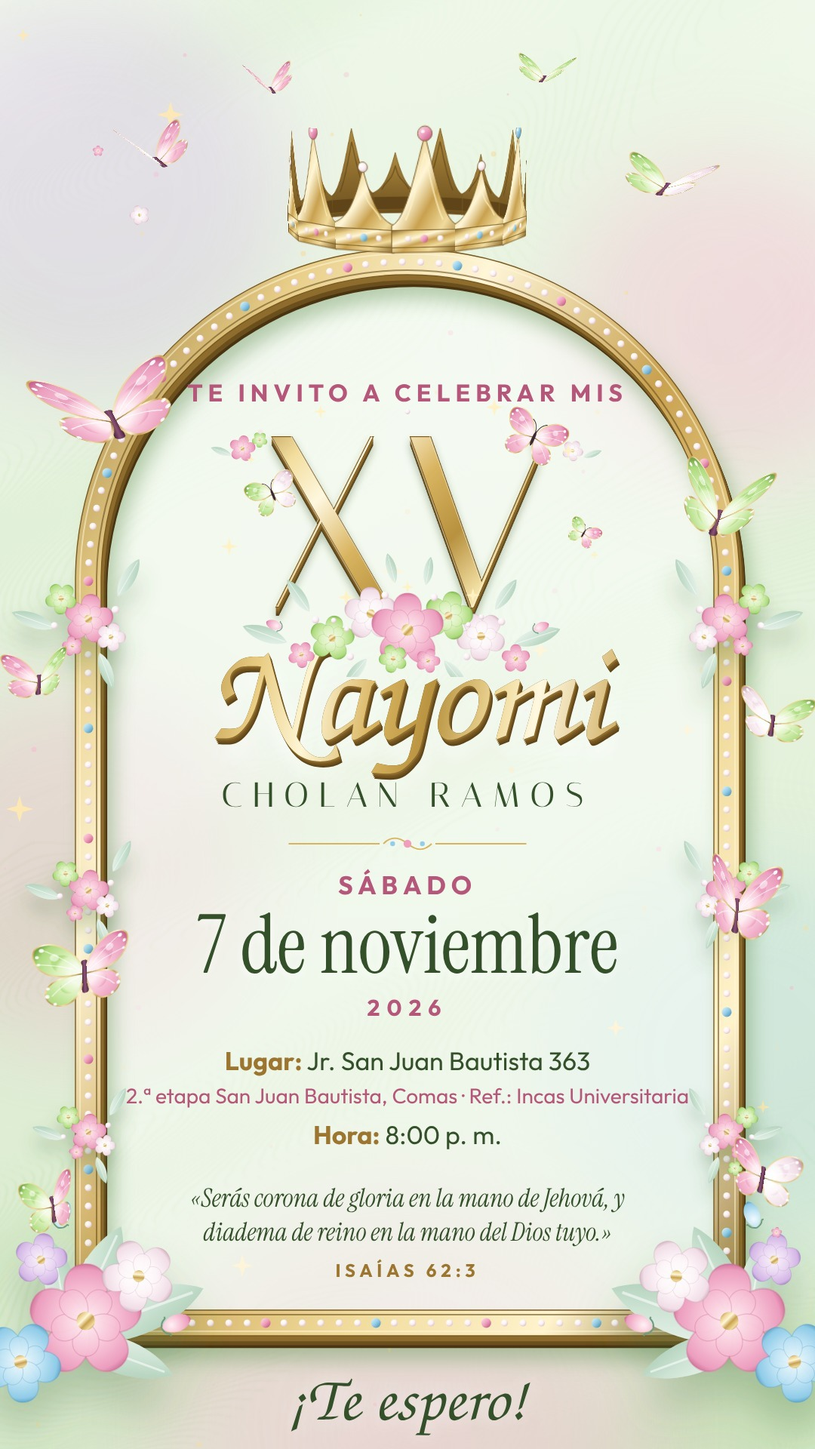
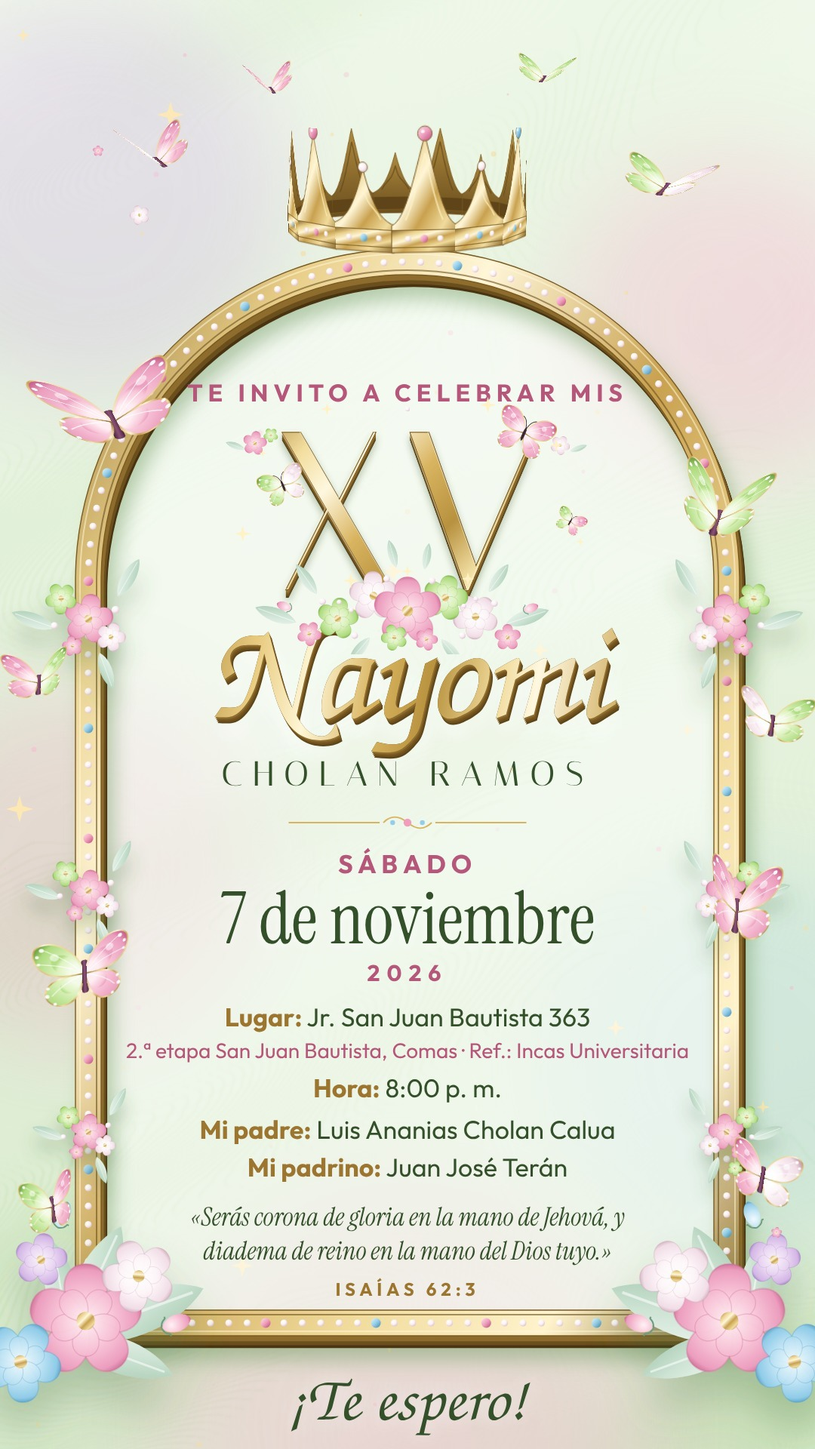
Agregar padre y padrino; más 3D (flores y corazones en cruz), modo ahorro y bajada con velocidad máxima
Claude-Session: https://claude.ai/code/session_01AKzUEhFsuXk9YdjnFDAqWs

Changed region(s): [[0.1528, 0.2812, 0.825, 0.9062], [0.6722, 0.3438, 0.7333, 0.375]]

diff --git a/cine/index.html b/cine/index.html
@@ -21,7 +21,7 @@
 *{box-sizing:border-box}
 html{background:#D6EAC8}
 body{margin:0;color:var(--perla);font:400 16px/1.5 "Outfit",system-ui,sans-serif;overflow-x:hidden;-webkit-tap-highlight-color:transparent}
-#largo{height:700vh}
+#largo{height:800vh}
 #fondo{position:fixed;inset:0;z-index:0;background:#D6EAC8 center/cover}
 #fondo::after{content:"";position:absolute;inset:0;background:radial-gradient(55% 35% at 12% 8%,rgba(248,190,212,.38),transparent 70%),radial-gradient(55% 35% at 92% 88%,rgba(248,190,212,.4),transparent 70%),radial-gradient(70% 55% at 50% 45%,rgba(255,255,250,.35),transparent 70%),radial-gradient(80% 60% at 50% 50%,transparent 55%,rgba(90,130,70,.25))}
 #gl{position:fixed;left:0;top:0;width:100vw;height:100vh;height:100dvh;z-index:1;pointer-events:none;display:block}
@@ -93,6 +93,7 @@ body.abre.bajo #desliza{opacity:0;transition:opacity .4s}
   <h1>XV años de Nayomi Cholan Ramos</h1>
   <p>«Serás corona de gloria en la mano de Jehová, y diadema de reino en la mano del Dios tuyo.» Isaías 62:3</p>
   <p>Sábado 7 de noviembre de 2026, 8:00 p. m. Jr. San Juan Bautista 363, 2.ª etapa San Juan Bautista, Comas. Ref.: Incas Universitaria.</p>
+  <p>Mi padre: Luis Ananias Cholan Calua. Mi padrino: Juan José Terán.</p>
 </main>
 <div id="largo"></div>
 <div id="desliza" aria-hidden="true">Desliza hacia arriba<b></b></div>
@@ -302,7 +303,7 @@ body.abre.bajo #desliza{opacity:0;transition:opacity .4s}
   const globos = (z1, n, sal = 20) => { for (let j = 0; j < (lite ? Math.ceil(n / 2) : n); j++) { const lado = j % 2 ? 1 : -1, d0 = rnd(28, 46), k = (100 + d0) / 100;
       if (j < 2) { const w = 21 * k; obj(racimoT[j], { x: lado * hw * (ancho ? .74 : .7) * k, y: 0, z: z1 - d0, w, h: w * 1.25, sube: hh * 2.8 * k, ph: j * hh * 1.3 * k + rnd(0, 20), vsube: .5, ini: 230, sal }); }
       else { const w = rnd(8, 11) * k; obj(globosT[j % 3], { x: lado * hw * rnd(.72, .92) * k, y: 0, z: z1 - d0, w, h: w * 15.8 / 8, sube: hh * 2.8 * k, ph: rnd(0, hh * 2.8 * k), vsube: .6, ini: 230, sal }); } } };
-  const estrellas = (z1, n, sal = 20) => { for (let j = 0; j < n; j++) obj(estrellaT, { x: (j % 2 ? 1 : -1) * hw * rnd(.5, .85), y: rnd(-.7, .7) * hh, z: z1 + rnd(-8, 10), w: rnd(3.4, 5), h: 0, spinY: rnd(.8, 1.6) * (j % 2 ? 1 : -1), b: .8, ini: 210, sal }); };
+  const estrellas = (z1, n, sal = 20) => { for (let j = 0; j < n; j++) obj(estrellaT, { x: (j % 2 ? 1 : -1) * hw * rnd(.5, .85), y: rnd(-.7, .7) * hh, z: z1 + rnd(-8, 10), w: rnd(3.4, 5), h: 0, spinY: rnd(.8, 1.6) * (j % 2 ? 1 : -1), b: .8, ini: 210, sal, deco: 1 }); };
 
   // 0 · portada
   let z = 0;
@@ -319,7 +320,7 @@ body.abre.bajo #desliza{opacity:0;transition:opacity .4s}
   let ramT;
   { // XV con volumen, tiara, enredadera de flores, mariposas posadas y brillos
     const T0 = ancho ? 28 : 44, Y0 = ancho ? 4 : hh * .06, xv = texto("XV", { t: T0, fam: "caps", oro: 1 });
-    grueso(xv, { y: Y0, z: z + 2, sal: 30, meceY: 7, canto: [.62, .5, .32], b: .7 }, lite ? 2 : 4, .3);
+    grueso(xv, { y: Y0, z: z + 2, sal: 30, meceY: 7, canto: [.62, .5, .32], b: .7 }, lite ? 3 : 6, .28);
     const tiara = `<g transform="translate(0 6)"><path d="M-96,22 L-76,-8 L-58,14 L-35,-24 L-15,10 L0,-44 L15,10 L35,-24 L58,14 L76,-8 L96,22 C60,31 -60,31 -96,22 Z" fill="url(#oro)" stroke="#7A5A22" stroke-width="1.6" stroke-linejoin="round"/><path d="M-80,16 C-40,22 40,22 80,16" fill="none" stroke="#FFF6D8" stroke-opacity=".7" stroke-width="1.6"/>` +
       [[-76, -8, 4.6, "perlaG"], [76, -8, 4.6, "perlaG"], [-35, -24, 6.4, "joyaV"], [35, -24, 6.4, "joyaV"], [0, -44, 9.5, "joyaR"], [-15, 10, 3.8, "joyaR"], [15, 10, 3.8, "joyaR"], [-58, 14, 3.4, "joyaV"], [58, 14, 3.4, "joyaV"]].map(([x, y, r, g]) => `<circle cx="${x}" cy="${y}" r="${r}" fill="url(#${g})" stroke="#7A5A22" stroke-width="1"/><circle cx="${x - r * .3}" cy="${y - r * .35}" r="${r * .3}" fill="#fff" opacity=".85"/>`).join("") +
       [-84, -63, -42, -21, 0, 21, 42, 63, 84].map((x) => `<circle cx="${x}" cy="${(25 - Math.abs(x) * .05).toFixed(1)}" r="3" fill="url(#perlaG)"/>`).join("") + `<path d="M0,-66 l2.6,7.4 7.4,2.6 -7.4,2.6 -2.6,7.4 -2.6,-7.4 -7.4,-2.6 7.4,-2.6 Z" fill="#FFF6D8"/></g>`;
@@ -401,8 +402,21 @@ body.abre.bajo #desliza{opacity:0;transition:opacity .4s}
   jardin(z, 16);
 
   obj(ramT, { y: ancho ? -42 : -hh * .43, z: z + 4, w: (ancho ? 50 : 66), h: (ancho ? 50 : 66) * .4, sal: 24, b: 1 }); 
-  // 4 · la fecha
+  // 4 · con la bendición de Dios: papá y padrino
   z = -4 * D; guir(z);
+  desde(texto("Con la bendición de Dios", { t: ancho ? 6.4 : 6.8, fam: "ita" }), { y: ancho ? 35 : hh * .66, z, sal: 26, gira: 1 });
+  desde(texto("Y EL CARIÑO DE", { t: 3, peso: 600, esp: .26, col: "#B5577A" }), { y: ancho ? 27 : hh * .55, z, sal: 26 });
+  [["MI PADRE", "Luis Ananias Cholan Calua"], ["MI PADRINO", "Juan José Terán"]].forEach(([a1, b1], i) => {
+    const filas = [{ t: a1, tam: 2.8, peso: 600, esp: .24, col: "#9C7631", una: 1, gap: 2.4 }, { t: b1, tam: ancho ? 6.4 : 7, fam: "serif", lh: 1.12 }];
+    grueso(tarjeta(ancho ? 48 : 76, filas, 16), ancho ? { x: (i ? 1 : -1) * 27, y: -2, z: z - i * 6, ry: (i ? -1 : 1) * 14 * RAD, sal: 22, gira: 1, balancea: 1 } : { y: (i ? -1 : 1) * hh * .2 + (i ? -hh * .06 : 0), z: z - i * 8, ry: (i % 2 ? -1 : 1) * 9 * RAD, sal: 22, gira: 1, balancea: 1 }, lite ? 2 : 4, .7); });
+  desde({ c: ramoC, w: 40, h: 31.3 }, { x: -hw * .84, y: -hh * .88, z: z + 10, sal: 12 }); desde({ c: ramoC2, w: 40, h: 31.3 }, { x: hw * .84, y: -hh * .88, z: z + 10, sal: 12 });
+  mari("rosa", "lima", { x: hw * .62, y: hh * .78, z: z + 6, s: .65, r: -18 }); mari("lima", "rosa", { x: -hw * .66, y: -hh * .02, z: z + 8, s: .6, r: 16 });
+  vuela("rosa", "perla", z - 8); vuela("lima", "rosa", z - 14);
+  globos(z, 4); estrellas(z, 3);
+  jardin(z, 16);
+
+  // 5 · la fecha
+  z = -5 * D; guir(z);
   mari("celeste", "rosa", { x: -hw * .62, y: hh * .38, z: z + 8, s: .75, r: 18 }); mari("perla", "lima", { x: hw * .6, y: -hh * .6, z: z + 5, s: .65, r: -14 });
   obj(ramT, { y: ancho ? -42 : -hh * .5, z: z + 6, w: (ancho ? 46 : 62), h: (ancho ? 46 : 62) * .4, sal: 24, b: 1 }); 
   desde(texto("GUARDA LA FECHA", { t: 3.4, peso: 600, esp: .26, col: "#B5577A" }), { y: hh * .62, z, sal: 26, gira: 1 });
@@ -413,8 +427,8 @@ body.abre.bajo #desliza{opacity:0;transition:opacity .4s}
 
   orbita(0, hh * .02, z, ancho ? 36 : 40, lite ? 6 : 10, 5.4, .42, .16, [coraT, floresT[0], floresT[2], coraT, floresT[1]]); globos(z, 4);
 
-  // 5 · los detalles
-  z = -5 * D;
+  // 6 · los detalles
+  z = -6 * D;
   mari("rosa", "rosa", { x: hw * .7, y: hh * .78, z: z + 8, s: .6, r: -20 });
   const det = [["HORA", "8:00 p. m.", "Sábado 7 de noviembre"], ["LUGAR", "Jr. San Juan Bautista 363", "2.ª etapa San Juan Bautista, Comas · Ref.: Incas Universitaria"]];
   det.forEach(([a1, b1, c1], i) => { const filas = [{ t: a1, tam: 2.7, peso: 600, esp: .24, col: "#9C7631", una: 1, gap: 2 }, { t: b1, tam: 7, fam: "serif", lh: 1.12, gap: c1 ? 2 : 0 }]; if (c1) filas.push({ t: c1, tam: 3.5, col: "#B5577A", lh: 1.35 });
@@ -422,8 +436,8 @@ body.abre.bajo #desliza{opacity:0;transition:opacity .4s}
   vuela("lima", "rosa", z + 14); vuela("rosa", "rosa", z + 22, { s: .55 });
   jardin(z, 16);
 
-  // 6 · final
-  z = -6 * D; guir(z);
+  // 7 · final
+  z = -7 * D; guir(z);
   grueso(texto("¡Te espero!", { t: 14, fam: "serif", oro: 1 }), { y: hh * .34, z: z + 2, sal: -99, canto: [.62, .5, .32], b: .7 }, lite ? 1 : 3, .3);
   desde(texto("Sábado 7 de noviembre · 8:00 p. m.", { t: ancho ? 5 : 5.4, fam: "ita" }), { y: hh * .04, z, sal: -99 });
   desde(texto("Jr. San Juan Bautista 363, Comas", { t: ancho ? 4 : 4.4, fam: "ita", col: "#B5577A" }), { y: -hh * .04, z, sal: -99 });
@@ -435,26 +449,30 @@ body.abre.bajo #desliza{opacity:0;transition:opacity .4s}
   orbita(0, hh * .34, z + 2, ancho ? 34 : 38, lite ? 8 : 12, 5, .45, .18, [estrellaT, floresT[0], perlaT, floresT[2], coraT, floresT[4]]); globos(z, 6, -99); estrellas(z, 4, -99);
 
   // primer plano: flores y hojas grandes muy cerca de la cámara en las esquinas (se mueven más rápido = se siente la profundidad)
-  for (let e = 0; e < 7; e++) { const z0 = -e * D, dd = 42, zz = z0 + 100 - dd, vx = hw * dd / 100, vy = hh * dd / 100, lado = e % 2 ? -1 : 1;
+  for (let e = 0; e < 8; e++) { const z0 = -e * D, dd = 42, zz = z0 + 100 - dd, vx = hw * dd / 100, vy = hh * dd / 100, lado = e % 2 ? -1 : 1;
     obj(floresT[(e * 2) % 5], { x: -lado * vx * .92, y: -vy * .9, z: zz, w: 9, h: 9, rz: e, sal: 3, ini: 230, spin: .08 * lado });
     obj(hojaT, { x: -lado * vx * 1.02, y: -vy * .72, z: zz - 1, w: 13, h: 7, rz: (lado > 0 ? 210 : -30) * RAD, sal: 3, ini: 230 });
     obj(floresT[(e * 2 + 1) % 5], { x: lado * vx * .95, y: vy * .55, z: zz + 3, w: 6.5, h: 6.5, rz: e * 2, sal: 3, ini: 230, spin: -.1 * lado });
     obj(hojaT, { x: lado * vx * 1.05, y: vy * .66, z: zz + 2, w: 10, h: 5.5, rz: (lado > 0 ? -25 : 205) * RAD, sal: 3, ini: 230 });
     // corazones que suben y brillos alrededor
     for (let j = 0; j < (lite ? 3 : 6); j++) obj(coraT, { x: (j % 2 ? 1 : -1) * hw * rnd(.45, .85), y: 0, z: z0 + rnd(-10, 14), w: rnd(3.4, 5.4), h: 0, sube: hh * 2.2, ph: rnd(0, hh * 2.2), ini: 200, sal: 8 });
-    for (let j = 0; j < (lite ? 3 : 7); j++) obj(brilloT, { x: rnd(-.85, .85) * hw, y: rnd(-.8, .8) * hh, z: z0 + rnd(-6, 16), w: rnd(2.2, 4), h: 0, ini: 200, sal: 8, tw: rnd(1.2, 2.6) }); }
+    for (let j = 0; j < (lite ? 3 : 7); j++) obj(brilloT, { x: rnd(-.85, .85) * hw, y: rnd(-.8, .8) * hh, z: z0 + rnd(-6, 16), w: rnd(2.2, 4), h: 0, ini: 200, sal: 8, tw: rnd(1.2, 2.6), deco: 1 }); }
 
   // arcos de flores (un solo dibujo, se usa 6 veces)
   const AX = hw * .36, AY = hh * .07;            // la cámara se va de lado y sube un poco a mitad de camino
   // fondo lejano: flores y hojas grandes, suaves (se mueven lento = profundidad)
-  for (let e = 0; e < 7; e++) { const z0 = -e * D; for (let j = 0; j < (lite ? 3 : 6); j++) { const lado = j % 2 ? 1 : -1, dd = rnd(70, 120), k = (100 + dd) / 100, t = j % 4 === 3 ? hojaT : floresT[(j + e) % 5], w = rnd(11, 17) * k;
-      obj(t, { x: lado * hw * rnd(.35, .95) * k, y: rnd(-.9, .9) * hh * k, z: z0 - dd, w, h: t === hojaT ? w * .55 : w, rz: rnd(0, 6.28), b: 1, ini: 260, sal: 10, spin: rnd(-.06, .06) }); }
+  for (let e = 0; e < 8; e++) { const z0 = -e * D; for (let j = 0; j < (lite ? 3 : 6); j++) { const lado = j % 2 ? 1 : -1, dd = rnd(70, 120), k = (100 + dd) / 100, t = j % 4 === 3 ? hojaT : floresT[(j + e) % 5], w = rnd(11, 17) * k;
+      obj(t, { x: lado * hw * rnd(.35, .95) * k, y: rnd(-.9, .9) * hh * k, z: z0 - dd, w, h: t === hojaT ? w * .55 : w, rz: rnd(0, 6.28), b: 1, ini: 260, sal: 10, deco: 1, spin: rnd(-.06, .06) }); }
     // corazones grandes que giran en 3D
     for (let j = 0; j < (lite ? 1 : 3); j++) obj(coraT, { x: (j % 2 ? 1 : -1) * hw * rnd(.55, .8), y: rnd(-.55, .6) * hh, z: z0 + rnd(-14, 6), w: rnd(5.5, 8), h: 0, spinY: rnd(.9, 1.5) * (j % 2 ? 1 : -1), b: .75, ini: 220, sal: 10 }); }
 
+  // en cada parte: flores y corazones 3D que giran
+  for (let e = 0; e < 8; e++) { const z0 = -e * D; for (let j = 0; j < (lite ? 2 : 4); j++) { const t = j % 2 ? coraT : floresT[(j + e * 3) % 5], w = t === coraT ? rnd(5, 7) : rnd(6, 8.5);
+    obj(t, { x: (j % 2 ? 1 : -1) * hw * rnd(.5, .82), y: rnd(-.7, .7) * hh, z: z0 + rnd(-12, 8), w, h: t === coraT ? w * .92 : w, spinY: rnd(.5, .9) * (j % 2 ? 1 : -1), cruz: 1, b: .8, ini: 220, sal: 10, deco: 1 }); } }
+
   // remolino de brillos alrededor del camino de la cámara
-  for (let k = 0; k < 6; k++) { const n = lite ? 14 : 30; for (let j = 0; j < n; j++) { const u = (j + .5) / n, sv = (k + .12 + u * .76) * D, f = sv / D - k, s1 = Math.sin(Math.PI * f) ** 2, cx = (k % 2 ? -1 : 1) * AX * s1, cy = AY * s1, an = u * Math.PI * 7 + k, rr = 16 + (j % 3) * 5;
-    obj(j % 4 === 0 ? estrellaT : brilloT, { x: cx + Math.cos(an) * rr * (hw / 50), y: cy + Math.sin(an) * rr * (hh / 50) * .8, z: 100 - sv - 8, w: j % 4 === 0 ? 3.2 : rnd(2, 3.4), h: 0, ini: 170, sal: 3, tw: rnd(1.5, 3), spinY: j % 4 === 0 ? 1.4 : 0 }); } }
+  for (let k = 0; k < 7; k++) { const n = lite ? 14 : 30; for (let j = 0; j < n; j++) { const u = (j + .5) / n, sv = (k + .12 + u * .76) * D, f = sv / D - k, s1 = Math.sin(Math.PI * f) ** 2, cx = (k % 2 ? -1 : 1) * AX * s1, cy = AY * s1, an = u * Math.PI * 7 + k, rr = 16 + (j % 3) * 5;
+    obj(j % 4 === 0 ? estrellaT : brilloT, { x: cx + Math.cos(an) * rr * (hw / 50), y: cy + Math.sin(an) * rr * (hh / 50) * .8, z: 100 - sv - 8, w: j % 4 === 0 ? 3.2 : rnd(2, 3.4), h: 0, ini: 170, sal: 3, tw: rnd(1.5, 3), spinY: j % 4 === 0 ? 1.4 : 0, deco: 1 }); } }
   const arcos = async () => { const RW = hw * 1.95, RH = hh * 1.8, vw = 1000, vh = Math.round(1000 * RH / RW), ex = 405, ey = vh / 2 - 85; let p = `<ellipse cx="0" cy="0" rx="${ex}" ry="${ey}" fill="none" stroke="#C9A14F" stroke-width="6" stroke-opacity=".85"/><ellipse cx="0" cy="0" rx="${ex - 14}" ry="${ey - 14}" fill="none" stroke="#FFF6D8" stroke-width="2" stroke-opacity=".7"/>`;
     const n = 30, ks = ["rosa", "perla", "lima", "rosa", "lima", "perla"];
     for (let i = 0; i < n; i++) { const t = i / n * Math.PI * 2, x = Math.cos(t) * ex, y = Math.sin(t) * ey, gr = (t * 180 / Math.PI); p += hoja(x, y, 70, gr + 60) + hoja(x, y, 62, gr - 70); }
@@ -462,14 +480,14 @@ body.abre.bajo #desliza{opacity:0;transition:opacity .4s}
     for (let i = 0; i < n; i++) { const t = i / n * Math.PI * 2, x = Math.cos(t) * ex, y = Math.sin(t) * ey; p += flor(x, y, i % 3 === 0 ? 52 : 38, P[ks[i % 6]], i * 37); if (i % 3 === 1) p += flor(x + Math.cos(t) * 46, y + Math.sin(t) * 46, 22, P[ks[(i + 2) % 6]], i * 11); }
     p += destello(0, -ey - 40, 22, "#FFF1C4") + destello(-ex * .7, -ey * .72, 14, "#FFF1C4") + destello(ex * .72, ey * .7, 16, "#FFF1C4");
     const arT = textura(await deSvg(`${-vw / 2} ${-vh / 2} ${vw} ${vh}`, p, RW, RH, lite ? .35 : .5));
-    for (let k = 0; k < 6; k++) for (const dz of [0, 62]) { const sv = (k + .5) * D + 10 + dz, f = sv / D - k, s1 = Math.sin(Math.PI * Math.min(1, f)) ** 2; obj(arT, { x: (k % 2 ? -1 : 1) * AX * s1, y: AY * s1, z: 100 - sv, w: RW * (dz ? .92 : 1), h: RH * (dz ? .92 : 1), rz: (dz ? 1 : -1) * (k % 2 ? -1 : 1) * 7 * RAD, ini: 145, sal: 4, b: 1, spin: (k % 2 ? -1 : 1) * (dz ? -.06 : .05), arco: 1 }); } };
+    for (let k = 0; k < 7; k++) for (const dz of [0, 62]) { const sv = (k + .5) * D + 10 + dz, f = sv / D - k, s1 = Math.sin(Math.PI * Math.min(1, f)) ** 2; obj(arT, { x: (k % 2 ? -1 : 1) * AX * s1, y: AY * s1, z: 100 - sv, w: RW * (dz ? .92 : 1), h: RH * (dz ? .92 : 1), rz: (dz ? 1 : -1) * (k % 2 ? -1 : 1) * 7 * RAD, ini: 145, sal: 4, b: 1, spin: (k % 2 ? -1 : 1) * (dz ? -.06 : .05), arco: 1 }); } };
   objs.forEach((o) => { if (!o.h) o.h = o.w; });
 
   // pétalos que caen dando vueltas en 3D por todo el viaje
-  const petalos = []; for (let i = 0; i < (lite ? 24 : 72); i++) petalos.push({ t: i % 4 === 1 ? floresT[i % 5] : petaloT[i % 4], x: rnd(-1, 1) * hw, y: rnd(-1, 1) * hh, z: rnd(-6 * D - 120, 60), vx: rnd(-1, 1), vy: rnd(-5, -2.5), rx: rnd(0, 6), ry: rnd(0, 6), sx: rnd(1, 2.6), sy: rnd(.8, 2), s: rnd(2.2, 3.6) });
+  const petalos = []; for (let i = 0; i < (lite ? 24 : 72); i++) petalos.push({ t: i % 4 === 1 ? floresT[i % 5] : petaloT[i % 4], x: rnd(-1, 1) * hw, y: rnd(-1, 1) * hh, z: rnd(-7 * D - 120, 60), vx: rnd(-1, 1), vy: rnd(-5, -2.5), rx: rnd(0, 6), ry: rnd(0, 6), sx: rnd(1, 2.6), sy: rnd(.8, 2), s: rnd(2.2, 3.6) });
 
   /* ================= cámara ================= */
-  const N = 7, barra = $("barra"); barra.innerHTML = "<i></i>".repeat(N); const puntos = [...barra.children];
+  const N = 8, barra = $("barra"); barra.innerHTML = "<i></i>".repeat(N); const puntos = [...barra.children];
   const suave = (a, b, t) => { const v = Math.max(0, Math.min(1, (t - a) / (b - a))); return v * v * (3 - 2 * v); };
   const camDe = (p0) => { const p = Math.max(0, (p0 - .02) / .98), s = p * (N - 1), k = Math.min(N - 2, Math.floor(s)), t = s - k; return (k + (k ? suave(.24, .8, t) : suave(.06, .8, t))) * D; };
   const prog = () => { const m = document.documentElement.scrollHeight - innerHeight; return m > 0 ? Math.max(0, Math.min(1, scrollY / m)) : 0; };
@@ -510,13 +528,13 @@ body.abre.bajo #desliza{opacity:0;transition:opacity .4s}
   const porDist = (a, b) => b.ds - a.ds;
   const lista = [];
   // resolución que se adapta: si el celular no llega a ~40 cuadros por segundo, baja un poco la nitidez
-  let fq = 0, fn = 0, bajadas = 0, desde0 = 0, nCu = 0;
+  let fq = 0, fn = 0, bajadas = 0, desde0 = 0, nCu = 0, ahorro = lite;
   const cuadro = (now) => {
     if (!abierto && nCu > 2) { last = now; requestAnimationFrame(cuadro); return; } nCu++;
     const raw = (now - last) / 1000, dt = Math.min(.05, raw); last = now; TT += dt;
-    if (abierto && raw < .25) { desde0 += raw; if (desde0 > 2.5) { fq += raw; fn++; if (fn >= 45) { if (fq / fn > 1 / 40 && DPR > 1 && bajadas < 3) { DPR = Math.max(1, DPR * .8); bajadas++; tam(); } fq = 0; fn = 0; } } }
+    if (abierto && raw < .25) { desde0 += raw; if (desde0 > 2.5) { fq += raw; fn++; if (fn >= 45) { if (fq / fn > 1 / 40) { if (DPR > 1 && bajadas < 3) { DPR = Math.max(1, DPR * .8); bajadas++; tam(); } else ahorro = true; } fq = 0; fn = 0; } } }
     const tz = camDe(prog()), antes = viaje;
-    viaje = quieto ? tz : viaje + (tz - viaje) * Math.min(1, dt * 12); if (Math.abs(tz - viaje) < .02) viaje = tz;
+    let paso = (tz - viaje) * Math.min(1, dt * 12); const tope = dt * D * 1.15; paso = Math.max(-tope, Math.min(tope, paso)); viaje = quieto ? tz : viaje + paso; if (Math.abs(tz - viaje) < .02) viaje = tz;
     vel += ((viaje - antes) / Math.max(dt, .001) - vel) * .1;
     if (!puntero) { tmx = 0; tmy = 0; }
     mx += (tmx - mx) * .08; my += (tmy - my) * .08;
@@ -530,7 +548,7 @@ body.abre.bajo #desliza{opacity:0;transition:opacity .4s}
     mt(VW1, sZ(q1, -roll), sX(q2, my * 12 * RAD + pitch)); mt(VW2, VW1, sY(q3, mx * 18 * RAD + yaw + (1 - ea) * 10 * RAD + Math.sin(TT * .33) * 1.6 * RAD * resp)); mt(VIEW, VW2, sT(q4, -camX2, -camY2, -camZ)); mt(PV, proj, VIEW);
     gl.clearColor(0, 0, 0, 0); gl.clear(gl.COLOR_BUFFER_BIT);
     nl = 0;
-    for (const o of objs) { const d = camZ - o.z; if (d < 1 || d > o.ini) continue; const a = vis(d, o) * o.a; if (a <= .01) continue; let ds = d; if (o.orb) { const b = o.orb, th = b.a + TT * b.v; ds = d - b.R * Math.cos(th); } else if (o.corona) ds = d - o.corona.R * Math.cos(o.corona.i * Math.PI * 2 / 14 + TT * .45); const it = item(); it.ds = ds; it.o = o; it.a = a; it.tipo = 0; it.d = d; nl++; }
+    for (const o of objs) { if (ahorro && o.deco) continue; const d = camZ - o.z; if (d < 1 || d > o.ini) continue; const a = vis(d, o) * o.a; if (a <= .01) continue; let ds = d; if (o.orb) { const b = o.orb, th = b.a + TT * b.v; ds = d - b.R * Math.cos(th); } else if (o.corona) ds = d - o.corona.R * Math.cos(o.corona.i * Math.PI * 2 / 14 + TT * .45); const it = item(); it.ds = ds; it.o = o; it.a = a; it.tipo = 0; it.d = d; nl++; }
     for (const m of maris) { const d = camZ - m.z; if (d < 1 || d > m.ini) continue; const a = vis(d, m); if (a > .01) { if (m.vuela) { const v = m.vuela, t = TT * v.v + m.ph, px = m.x0 + Math.sin(t) * v.ax, py = m.y0 + Math.sin(t * 1.7) * v.ay; m.r = Math.atan2(Math.cos(t * 1.7) * v.ay * 1.7, Math.cos(t) * v.ax) / RAD - 90; m.r = Math.max(-60, Math.min(60, ((m.r + 540) % 360) - 180)); m.x = px; m.y = py; } const it = item(); it.ds = d; it.o = m; it.a = a; it.tipo = 1; it.d = d; nl++; } }
     for (const p of petalos) { p.y += p.vy * dt; p.x += p.vx * dt; p.rx += p.sx * dt; p.ry += p.sy * dt; if (p.y < -hh * 1.3) p.y = hh * 1.3; const d = camZ - p.z; if (d > 2 && d < 300) { const it = item(); it.ds = d; it.o = p; it.a = Math.min(1, (300 - d) / 60, (d - 2) / 8) * .85; it.tipo = 2; it.d = d; nl++; } }
     lista.length = nl; for (let i = 0; i < nl; i++) lista[i] = pool[i];
@@ -555,6 +573,7 @@ body.abre.bajo #desliza{opacity:0;transition:opacity .4s}
       mt(FIN, PV, w4); if (fuera(FIN)) continue;
       let aa = a; if (o.tw) aa *= .45 + .55 * Math.sin(TT * o.tw * 3 + o.x);
       dibuja(o.tex, FIN, aa, o.k, o.b);
+      if (o.cruz) { mt(w1, sT(q1, o.x, o.y, o.z), sY(q2, TT * (o.spinY || 0) + Math.PI / 2)); mt(w2, w1, sX(q3, o.rx)); mt(w3, w2, sZ(q4, o.rz)); mt(w4, w3, sS(q5, o.w, o.h)); mt(FIN, PV, w4); dibuja(o.tex, FIN, aa, o.k, o.b); }
     }
     // estación y botón final
     const e = Math.round(viaje / D); if (e !== est) { est = e; puntos.forEach((x, i) => x.classList.toggle("on", i === e)); }

diff --git a/index.html b/index.html
@@ -21,7 +21,7 @@
 *{box-sizing:border-box}
 html{background:#D6EAC8}
 body{margin:0;color:var(--perla);font:400 16px/1.5 "Outfit",system-ui,sans-serif;overflow-x:hidden;-webkit-tap-highlight-color:transparent}
-#largo{height:700vh}
+#largo{height:800vh}
 #fondo{position:fixed;inset:0;z-index:0;background:#D6EAC8 center/cover}
 #fondo::after{content:"";position:absolute;inset:0;background:radial-gradient(55% 35% at 12% 8%,rgba(248,190,212,.38),transparent 70%),radial-gradient(55% 35% at 92% 88%,rgba(248,190,212,.4),transparent 70%),radial-gradient(70% 55% at 50% 45%,rgba(255,255,250,.35),transparent 70%),radial-gradient(80% 60% at 50% 50%,transparent 55%,rgba(90,130,70,.25))}
 #gl{position:fixed;left:0;top:0;width:100vw;height:100vh;height:100dvh;z-index:1;pointer-events:none;display:block}
@@ -93,6 +93,7 @@ body.abre.bajo #desliza{opacity:0;transition:opacity .4s}
   <h1>XV años de Nayomi Cholan Ramos</h1>
   <p>«Serás corona de gloria en la mano de Jehová, y diadema de reino en la mano del Dios tuyo.» Isaías 62:3</p>
   <p>Sábado 7 de noviembre de 2026, 8:00 p. m. Jr. San Juan Bautista 363, 2.ª etapa San Juan Bautista, Comas. Ref.: Incas Universitaria.</p>
+  <p>Mi padre: Luis Ananias Cholan Calua. Mi padrino: Juan José Terán.</p>
 </main>
 <div id="largo"></div>
 <div id="desliza" aria-hidden="true">Desliza hacia arriba<b></b></div>
@@ -302,7 +303,7 @@ body.abre.bajo #desliza{opacity:0;transition:opacity .4s}
   const globos = (z1, n, sal = 20) => { for (let j = 0; j < (lite ? Math.ceil(n / 2) : n); j++) { const lado = j % 2 ? 1 : -1, d0 = rnd(28, 46), k = (100 + d0) / 100;
       if (j < 2) { const w = 21 * k; obj(racimoT[j], { x: lado * hw * (ancho ? .74 : .7) * k, y: 0, z: z1 - d0, w, h: w * 1.25, sube: hh * 2.8 * k, ph: j * hh * 1.3 * k + rnd(0, 20), vsube: .5, ini: 230, sal }); }
       else { const w = rnd(8, 11) * k; obj(globosT[j % 3], { x: lado * hw * rnd(.72, .92) * k, y: 0, z: z1 - d0, w, h: w * 15.8 / 8, sube: hh * 2.8 * k, ph: rnd(0, hh * 2.8 * k), vsube: .6, ini: 230, sal }); } } };
-  const estrellas = (z1, n, sal = 20) => { for (let j = 0; j < n; j++) obj(estrellaT, { x: (j % 2 ? 1 : -1) * hw * rnd(.5, .85), y: rnd(-.7, .7) * hh, z: z1 + rnd(-8, 10), w: rnd(3.4, 5), h: 0, spinY: rnd(.8, 1.6) * (j % 2 ? 1 : -1), b: .8, ini: 210, sal }); };
+  const estrellas = (z1, n, sal = 20) => { for (let j = 0; j < n; j++) obj(estrellaT, { x: (j % 2 ? 1 : -1) * hw * rnd(.5, .85), y: rnd(-.7, .7) * hh, z: z1 + rnd(-8, 10), w: rnd(3.4, 5), h: 0, spinY: rnd(.8, 1.6) * (j % 2 ? 1 : -1), b: .8, ini: 210, sal, deco: 1 }); };
 
   // 0 · portada
   let z = 0;
@@ -319,7 +320,7 @@ body.abre.bajo #desliza{opacity:0;transition:opacity .4s}
   let ramT;
   { // XV con volumen, tiara, enredadera de flores, mariposas posadas y brillos
     const T0 = ancho ? 28 : 44, Y0 = ancho ? 4 : hh * .06, xv = texto("XV", { t: T0, fam: "caps", oro: 1 });
-    grueso(xv, { y: Y0, z: z + 2, sal: 30, meceY: 7, canto: [.62, .5, .32], b: .7 }, lite ? 2 : 4, .3);
+    grueso(xv, { y: Y0, z: z + 2, sal: 30, meceY: 7, canto: [.62, .5, .32], b: .7 }, lite ? 3 : 6, .28);
     const tiara = `<g transform="translate(0 6)"><path d="M-96,22 L-76,-8 L-58,14 L-35,-24 L-15,10 L0,-44 L15,10 L35,-24 L58,14 L76,-8 L96,22 C60,31 -60,31 -96,22 Z" fill="url(#oro)" stroke="#7A5A22" stroke-width="1.6" stroke-linejoin="round"/><path d="M-80,16 C-40,22 40,22 80,16" fill="none" stroke="#FFF6D8" stroke-opacity=".7" stroke-width="1.6"/>` +
       [[-76, -8, 4.6, "perlaG"], [76, -8, 4.6, "perlaG"], [-35, -24, 6.4, "joyaV"], [35, -24, 6.4, "joyaV"], [0, -44, 9.5, "joyaR"], [-15, 10, 3.8, "joyaR"], [15, 10, 3.8, "joyaR"], [-58, 14, 3.4, "joyaV"], [58, 14, 3.4, "joyaV"]].map(([x, y, r, g]) => `<circle cx="${x}" cy="${y}" r="${r}" fill="url(#${g})" stroke="#7A5A22" stroke-width="1"/><circle cx="${x - r * .3}" cy="${y - r * .35}" r="${r * .3}" fill="#fff" opacity=".85"/>`).join("") +
       [-84, -63, -42, -21, 0, 21, 42, 63, 84].map((x) => `<circle cx="${x}" cy="${(25 - Math.abs(x) * .05).toFixed(1)}" r="3" fill="url(#perlaG)"/>`).join("") + `<path d="M0,-66 l2.6,7.4 7.4,2.6 -7.4,2.6 -2.6,7.4 -2.6,-7.4 -7.4,-2.6 7.4,-2.6 Z" fill="#FFF6D8"/></g>`;
@@ -401,8 +402,21 @@ body.abre.bajo #desliza{opacity:0;transition:opacity .4s}
   jardin(z, 16);
 
   obj(ramT, { y: ancho ? -42 : -hh * .43, z: z + 4, w: (ancho ? 50 : 66), h: (ancho ? 50 : 66) * .4, sal: 24, b: 1 }); 
-  // 4 · la fecha
+  // 4 · con la bendición de Dios: papá y padrino
   z = -4 * D; guir(z);
+  desde(texto("Con la bendición de Dios", { t: ancho ? 6.4 : 6.8, fam: "ita" }), { y: ancho ? 35 : hh * .66, z, sal: 26, gira: 1 });
+  desde(texto("Y EL CARIÑO DE", { t: 3, peso: 600, esp: .26, col: "#B5577A" }), { y: ancho ? 27 : hh * .55, z, sal: 26 });
+  [["MI PADRE", "Luis Ananias Cholan Calua"], ["MI PADRINO", "Juan José Terán"]].forEach(([a1, b1], i) => {
+    const filas = [{ t: a1, tam: 2.8, peso: 600, esp: .24, col: "#9C7631", una: 1, gap: 2.4 }, { t: b1, tam: ancho ? 6.4 : 7, fam: "serif", lh: 1.12 }];
+    grueso(tarjeta(ancho ? 48 : 76, filas, 16), ancho ? { x: (i ? 1 : -1) * 27, y: -2, z: z - i * 6, ry: (i ? -1 : 1) * 14 * RAD, sal: 22, gira: 1, balancea: 1 } : { y: (i ? -1 : 1) * hh * .2 + (i ? -hh * .06 : 0), z: z - i * 8, ry: (i % 2 ? -1 : 1) * 9 * RAD, sal: 22, gira: 1, balancea: 1 }, lite ? 2 : 4, .7); });
+  desde({ c: ramoC, w: 40, h: 31.3 }, { x: -hw * .84, y: -hh * .88, z: z + 10, sal: 12 }); desde({ c: ramoC2, w: 40, h: 31.3 }, { x: hw * .84, y: -hh * .88, z: z + 10, sal: 12 });
+  mari("rosa", "lima", { x: hw * .62, y: hh * .78, z: z + 6, s: .65, r: -18 }); mari("lima", "rosa", { x: -hw * .66, y: -hh * .02, z: z + 8, s: .6, r: 16 });
+  vuela("rosa", "perla", z - 8); vuela("lima", "rosa", z - 14);
+  globos(z, 4); estrellas(z, 3);
+  jardin(z, 16);
+
+  // 5 · la fecha
+  z = -5 * D; guir(z);
   mari("celeste", "rosa", { x: -hw * .62, y: hh * .38, z: z + 8, s: .75, r: 18 }); mari("perla", "lima", { x: hw * .6, y: -hh * .6, z: z + 5, s: .65, r: -14 });
   obj(ramT, { y: ancho ? -42 : -hh * .5, z: z + 6, w: (ancho ? 46 : 62), h: (ancho ? 46 : 62) * .4, sal: 24, b: 1 }); 
   desde(texto("GUARDA LA FECHA", { t: 3.4, peso: 600, esp: .26, col: "#B5577A" }), { y: hh * .62, z, sal: 26, gira: 1 });
@@ -413,8 +427,8 @@ body.abre.bajo #desliza{opacity:0;transition:opacity .4s}
 
   orbita(0, hh * .02, z, ancho ? 36 : 40, lite ? 6 : 10, 5.4, .42, .16, [coraT, floresT[0], floresT[2], coraT, floresT[1]]); globos(z, 4);
 
-  // 5 · los detalles
-  z = -5 * D;
+  // 6 · los detalles
+  z = -6 * D;
   mari("rosa", "rosa", { x: hw * .7, y: hh * .78, z: z + 8, s: .6, r: -20 });
   const det = [["HORA", "8:00 p. m.", "Sábado 7 de noviembre"], ["LUGAR", "Jr. San Juan Bautista 363", "2.ª etapa San Juan Bautista, Comas · Ref.: Incas Universitaria"]];
   det.forEach(([a1, b1, c1], i) => { const filas = [{ t: a1, tam: 2.7, peso: 600, esp: .24, col: "#9C7631", una: 1, gap: 2 }, { t: b1, tam: 7, fam: "serif", lh: 1.12, gap: c1 ? 2 : 0 }]; if (c1) filas.push({ t: c1, tam: 3.5, col: "#B5577A", lh: 1.35 });
@@ -422,8 +436,8 @@ body.abre.bajo #desliza{opacity:0;transition:opacity .4s}
   vuela("lima", "rosa", z + 14); vuela("rosa", "rosa", z + 22, { s: .55 });
   jardin(z, 16);
 
-  // 6 · final
-  z = -6 * D; guir(z);
+  // 7 · final
+  z = -7 * D; guir(z);
   grueso(texto("¡Te espero!", { t: 14, fam: "serif", oro: 1 }), { y: hh * .34, z: z + 2, sal: -99, canto: [.62, .5, .32], b: .7 }, lite ? 1 : 3, .3);
   desde(texto("Sábado 7 de noviembre · 8:00 p. m.", { t: ancho ? 5 : 5.4, fam: "ita" }), { y: hh * .04, z, sal: -99 });
   desde(texto("Jr. San Juan Bautista 363, Comas", { t: ancho ? 4 : 4.4, fam: "ita", col: "#B5577A" }), { y: -hh * .04, z, sal: -99 });
@@ -435,26 +449,30 @@ body.abre.bajo #desliza{opacity:0;transition:opacity .4s}
   orbita(0, hh * .34, z + 2, ancho ? 34 : 38, lite ? 8 : 12, 5, .45, .18, [estrellaT, floresT[0], perlaT, floresT[2], coraT, floresT[4]]); globos(z, 6, -99); estrellas(z, 4, -99);
 
   // primer plano: flores y hojas grandes muy cerca de la cámara en las esquinas (se mueven más rápido = se siente la profundidad)
-  for (let e = 0; e < 7; e++) { const z0 = -e * D, dd = 42, zz = z0 + 100 - dd, vx = hw * dd / 100, vy = hh * dd / 100, lado = e % 2 ? -1 : 1;
+  for (let e = 0; e < 8; e++) { const z0 = -e * D, dd = 42, zz = z0 + 100 - dd, vx = hw * dd / 100, vy = hh * dd / 100, lado = e % 2 ? -1 : 1;
     obj(floresT[(e * 2) % 5], { x: -lado * vx * .92, y: -vy * .9, z: zz, w: 9, h: 9, rz: e, sal: 3, ini: 230, spin: .08 * lado });
     obj(hojaT, { x: -lado * vx * 1.02, y: -vy * .72, z: zz - 1, w: 13, h: 7, rz: (lado > 0 ? 210 : -30) * RAD, sal: 3, ini: 230 });
     obj(floresT[(e * 2 + 1) % 5], { x: lado * vx * .95, y: vy * .55, z: zz + 3, w: 6.5, h: 6.5, rz: e * 2, sal: 3, ini: 230, spin: -.1 * lado });
     obj(hojaT, { x: lado * vx * 1.05, y: vy * .66, z: zz + 2, w: 10, h: 5.5, rz: (lado > 0 ? -25 : 205) * RAD, sal: 3, ini: 230 });
     // corazones que suben y brillos alrededor
     for (let j = 0; j < (lite ? 3 : 6); j++) obj(coraT, { x: (j % 2 ? 1 : -1) * hw * rnd(.45, .85), y: 0, z: z0 + rnd(-10, 14), w: rnd(3.4, 5.4), h: 0, sube: hh * 2.2, ph: rnd(0, hh * 2.2), ini: 200, sal: 8 });
-    for (let j = 0; j < (lite ? 3 : 7); j++) obj(brilloT, { x: rnd(-.85, .85) * hw, y: rnd(-.8, .8) * hh, z: z0 + rnd(-6, 16), w: rnd(2.2, 4), h: 0, ini: 200, sal: 8, tw: rnd(1.2, 2.6) }); }
+    for (let j = 0; j < (lite ? 3 : 7); j++) obj(brilloT, { x: rnd(-.85, .85) * hw, y: rnd(-.8, .8) * hh, z: z0 + rnd(-6, 16), w: rnd(2.2, 4), h: 0, ini: 200, sal: 8, tw: rnd(1.2, 2.6), deco: 1 }); }
 
   // arcos de flores (un solo dibujo, se usa 6 veces)
   const AX = hw * .36, AY = hh * .07;            // la cámara se va de lado y sube un poco a mitad de camino
   // fondo lejano: flores y hojas grandes, suaves (se mueven lento = profundidad)
-  for (let e = 0; e < 7; e++) { const z0 = -e * D; for (let j = 0; j < (lite ? 3 : 6); j++) { const lado = j % 2 ? 1 : -1, dd = rnd(70, 120), k = (100 + dd) / 100, t = j % 4 === 3 ? hojaT : floresT[(j + e) % 5], w = rnd(11, 17) * k;
-      obj(t, { x: lado * hw * rnd(.35, .95) * k, y: rnd(-.9, .9) * hh * k, z: z0 - dd, w, h: t === hojaT ? w * .55 : w, rz: rnd(0, 6.28), b: 1, ini: 260, sal: 10, spin: rnd(-.06, .06) }); }
+  for (let e = 0; e < 8; e++) { const z0 = -e * D; for (let j = 0; j < (lite ? 3 : 6); j++) { const lado = j % 2 ? 1 : -1, dd = rnd(70, 120), k = (100 + dd) / 100, t = j % 4 === 3 ? hojaT : floresT[(j + e) % 5], w = rnd(11, 17) * k;
+      obj(t, { x: lado * hw * rnd(.35, .95) * k, y: rnd(-.9, .9) * hh * k, z: z0 - dd, w, h: t === hojaT ? w * .55 : w, rz: rnd(0, 6.28), b: 1, ini: 260, sal: 10, deco: 1, spin: rnd(-.06, .06) }); }
     // corazones grandes que giran en 3D
     for (let j = 0; j < (lite ? 1 : 3); j++) obj(coraT, { x: (j % 2 ? 1 : -1) * hw * rnd(.55, .8), y: rnd(-.55, .6) * hh, z: z0 + rnd(-14, 6), w: rnd(5.5, 8), h: 0, spinY: rnd(.9, 1.5) * (j % 2 ? 1 : -1), b: .75, ini: 220, sal: 10 }); }
 
+  // en cada parte: flores y corazones 3D que giran
+  for (let e = 0; e < 8; e++) { const z0 = -e * D; for (let j = 0; j < (lite ? 2 : 4); j++) { const t = j % 2 ? coraT : floresT[(j + e * 3) % 5], w = t === coraT ? rnd(5, 7) : rnd(6, 8.5);
+    obj(t, { x: (j % 2 ? 1 : -1) * hw * rnd(.5, .82), y: rnd(-.7, .7) * hh, z: z0 + rnd(-12, 8), w, h: t === coraT ? w * .92 : w, spinY: rnd(.5, .9) * (j % 2 ? 1 : -1), cruz: 1, b: .8, ini: 220, sal: 10, deco: 1 }); } }
+
   // remolino de brillos alrededor del camino de la cámara
-  for (let k = 0; k < 6; k++) { const n = lite ? 14 : 30; for (let j = 0; j < n; j++) { const u = (j + .5) / n, sv = (k + .12 + u * .76) * D, f = sv / D - k, s1 = Math.sin(Math.PI * f) ** 2, cx = (k % 2 ? -1 : 1) * AX * s1, cy = AY * s1, an = u * Math.PI * 7 + k, rr = 16 + (j % 3) * 5;
-    obj(j % 4 === 0 ? estrellaT : brilloT, { x: cx + Math.cos(an) * rr * (hw / 50), y: cy + Math.sin(an) * rr * (hh / 50) * .8, z: 100 - sv - 8, w: j % 4 === 0 ? 3.2 : rnd(2, 3.4), h: 0, ini: 170, sal: 3, tw: rnd(1.5, 3), spinY: j % 4 === 0 ? 1.4 : 0 }); } }
+  for (let k = 0; k < 7; k++) { const n = lite ? 14 : 30; for (let j = 0; j < n; j++) { const u = (j + .5) / n, sv = (k + .12 + u * .76) * D, f = sv / D - k, s1 = Math.sin(Math.PI * f) ** 2, cx = (k % 2 ? -1 : 1) * AX * s1, cy = AY * s1, an = u * Math.PI * 7 + k, rr = 16 + (j % 3) * 5;
+    obj(j % 4 === 0 ? estrellaT : brilloT, { x: cx + Math.cos(an) * rr * (hw / 50), y: cy + Math.sin(an) * rr * (hh / 50) * .8, z: 100 - sv - 8, w: j % 4 === 0 ? 3.2 : rnd(2, 3.4), h: 0, ini: 170, sal: 3, tw: rnd(1.5, 3), spinY: j % 4 === 0 ? 1.4 : 0, deco: 1 }); } }
   const arcos = async () => { const RW = hw * 1.95, RH = hh * 1.8, vw = 1000, vh = Math.round(1000 * RH / RW), ex = 405, ey = vh / 2 - 85; let p = `<ellipse cx="0" cy="0" rx="${ex}" ry="${ey}" fill="none" stroke="#C9A14F" stroke-width="6" stroke-opacity=".85"/><ellipse cx="0" cy="0" rx="${ex - 14}" ry="${ey - 14}" fill="none" stroke="#FFF6D8" stroke-width="2" stroke-opacity=".7"/>`;
     const n = 30, ks = ["rosa", "perla", "lima", "rosa", "lima", "perla"];
     for (let i = 0; i < n; i++) { const t = i / n * Math.PI * 2, x = Math.cos(t) * ex, y = Math.sin(t) * ey, gr = (t * 180 / Math.PI); p += hoja(x, y, 70, gr + 60) + hoja(x, y, 62, gr - 70); }
@@ -462,14 +480,14 @@ body.abre.bajo #desliza{opacity:0;transition:opacity .4s}
     for (let i = 0; i < n; i++) { const t = i / n * Math.PI * 2, x = Math.cos(t) * ex, y = Math.sin(t) * ey; p += flor(x, y, i % 3 === 0 ? 52 : 38, P[ks[i % 6]], i * 37); if (i % 3 === 1) p += flor(x + Math.cos(t) * 46, y + Math.sin(t) * 46, 22, P[ks[(i + 2) % 6]], i * 11); }
     p += destello(0, -ey - 40, 22, "#FFF1C4") + destello(-ex * .7, -ey * .72, 14, "#FFF1C4") + destello(ex * .72, ey * .7, 16, "#FFF1C4");
     const arT = textura(await deSvg(`${-vw / 2} ${-vh / 2} ${vw} ${vh}`, p, RW, RH, lite ? .35 : .5));
-    for (let k = 0; k < 6; k++) for (const dz of [0, 62]) { const sv = (k + .5) * D + 10 + dz, f = sv / D - k, s1 = Math.sin(Math.PI * Math.min(1, f)) ** 2; obj(arT, { x: (k % 2 ? -1 : 1) * AX * s1, y: AY * s1, z: 100 - sv, w: RW * (dz ? .92 : 1), h: RH * (dz ? .92 : 1), rz: (dz ? 1 : -1) * (k % 2 ? -1 : 1) * 7 * RAD, ini: 145, sal: 4, b: 1, spin: (k % 2 ? -1 : 1) * (dz ? -.06 : .05), arco: 1 }); } };
+    for (let k = 0; k < 7; k++) for (const dz of [0, 62]) { const sv = (k + .5) * D + 10 + dz, f = sv / D - k, s1 = Math.sin(Math.PI * Math.min(1, f)) ** 2; obj(arT, { x: (k % 2 ? -1 : 1) * AX * s1, y: AY * s1, z: 100 - sv, w: RW * (dz ? .92 : 1), h: RH * (dz ? .92 : 1), rz: (dz ? 1 : -1) * (k % 2 ? -1 : 1) * 7 * RAD, ini: 145, sal: 4, b: 1, spin: (k % 2 ? -1 : 1) * (dz ? -.06 : .05), arco: 1 }); } };
   objs.forEach((o) => { if (!o.h) o.h = o.w; });
 
   // pétalos que caen dando vueltas en 3D por todo el viaje
-  const petalos = []; for (let i = 0; i < (lite ? 24 : 72); i++) petalos.push({ t: i % 4 === 1 ? floresT[i % 5] : petaloT[i % 4], x: rnd(-1, 1) * hw, y: rnd(-1, 1) * hh, z: rnd(-6 * D - 120, 60), vx: rnd(-1, 1), vy: rnd(-5, -2.5), rx: rnd(0, 6), ry: rnd(0, 6), sx: rnd(1, 2.6), sy: rnd(.8, 2), s: rnd(2.2, 3.6) });
+  const petalos = []; for (let i = 0; i < (lite ? 24 : 72); i++) petalos.push({ t: i % 4 === 1 ? floresT[i % 5] : petaloT[i % 4], x: rnd(-1, 1) * hw, y: rnd(-1, 1) * hh, z: rnd(-7 * D - 120, 60), vx: rnd(-1, 1), vy: rnd(-5, -2.5), rx: rnd(0, 6), ry: rnd(0, 6), sx: rnd(1, 2.6), sy: rnd(.8, 2), s: rnd(2.2, 3.6) });
 
   /* ================= cámara ================= */
-  const N = 7, barra = $("barra"); barra.innerHTML = "<i></i>".repeat(N); const puntos = [...barra.children];
+  const N = 8, barra = $("barra"); barra.innerHTML = "<i></i>".repeat(N); const puntos = [...barra.children];
   const suave = (a, b, t) => { const v = Math.max(0, Math.min(1, (t - a) / (b - a))); return v * v * (3 - 2 * v); };
   const camDe = (p0) => { const p = Math.max(0, (p0 - .02) / .98), s = p * (N - 1), k = Math.min(N - 2, Math.floor(s)), t = s - k; return (k + (k ? suave(.24, .8, t) : suave(.06, .8, t))) * D; };
   const prog = () => { const m = document.documentElement.scrollHeight - innerHeight; return m > 0 ? Math.max(0, Math.min(1, scrollY / m)) : 0; };
@@ -510,13 +528,13 @@ body.abre.bajo #desliza{opacity:0;transition:opacity .4s}
   const porDist = (a, b) => b.ds - a.ds;
   const lista = [];
   // resolución que se adapta: si el celular no llega a ~40 cuadros por segundo, baja un poco la nitidez
-  let fq = 0, fn = 0, bajadas = 0, desde0 = 0, nCu = 0;
+  let fq = 0, fn = 0, bajadas = 0, desde0 = 0, nCu = 0, ahorro = lite;
   const cuadro = (now) => {
     if (!abierto && nCu > 2) { last = now; requestAnimationFrame(cuadro); return; } nCu++;
     const raw = (now - last) / 1000, dt = Math.min(.05, raw); last = now; TT += dt;
-    if (abierto && raw < .25) { desde0 += raw; if (desde0 > 2.5) { fq += raw; fn++; if (fn >= 45) { if (fq / fn > 1 / 40 && DPR > 1 && bajadas < 3) { DPR = Math.max(1, DPR * .8); bajadas++; tam(); } fq = 0; fn = 0; } } }
+    if (abierto && raw < .25) { desde0 += raw; if (desde0 > 2.5) { fq += raw; fn++; if (fn >= 45) { if (fq / fn > 1 / 40) { if (DPR > 1 && bajadas < 3) { DPR = Math.max(1, DPR * .8); bajadas++; tam(); } else ahorro = true; } fq = 0; fn = 0; } } }
     const tz = camDe(prog()), antes = viaje;
-    viaje = quieto ? tz : viaje + (tz - viaje) * Math.min(1, dt * 12); if (Math.abs(tz - viaje) < .02) viaje = tz;
+    let paso = (tz - viaje) * Math.min(1, dt * 12); const tope = dt * D * 1.15; paso = Math.max(-tope, Math.min(tope, paso)); viaje = quieto ? tz : viaje + paso; if (Math.abs(tz - viaje) < .02) viaje = tz;
     vel += ((viaje - antes) / Math.max(dt, .001) - vel) * .1;
     if (!puntero) { tmx = 0; tmy = 0; }
     mx += (tmx - mx) * .08; my += (tmy - my) * .08;
@@ -530,7 +548,7 @@ body.abre.bajo #desliza{opacity:0;transition:opacity .4s}
     mt(VW1, sZ(q1, -roll), sX(q2, my * 12 * RAD + pitch)); mt(VW2, VW1, sY(q3, mx * 18 * RAD + yaw + (1 - ea) * 10 * RAD + Math.sin(TT * .33) * 1.6 * RAD * resp)); mt(VIEW, VW2, sT(q4, -camX2, -camY2, -camZ)); mt(PV, proj, VIEW);
     gl.clearColor(0, 0, 0, 0); gl.clear(gl.COLOR_BUFFER_BIT);
     nl = 0;
-    for (const o of objs) { const d = camZ - o.z; if (d < 1 || d > o.ini) continue; const a = vis(d, o) * o.a; if (a <= .01) continue; let ds = d; if (o.orb) { const b = o.orb, th = b.a + TT * b.v; ds = d - b.R * Math.cos(th); } else if (o.corona) ds = d - o.corona.R * Math.cos(o.corona.i * Math.PI * 2 / 14 + TT * .45); const it = item(); it.ds = ds; it.o = o; it.a = a; it.tipo = 0; it.d = d; nl++; }
+    for (const o of objs) { if (ahorro && o.deco) continue; const d = camZ - o.z; if (d < 1 || d > o.ini) continue; const a = vis(d, o) * o.a; if (a <= .01) continue; let ds = d; if (o.orb) { const b = o.orb, th = b.a + TT * b.v; ds = d - b.R * Math.cos(th); } else if (o.corona) ds = d - o.corona.R * Math.cos(o.corona.i * Math.PI * 2 / 14 + TT * .45); const it = item(); it.ds = ds; it.o = o; it.a = a; it.tipo = 0; it.d = d; nl++; }
     for (const m of maris) { const d = camZ - m.z; if (d < 1 || d > m.ini) continue; const a = vis(d, m); if (a > .01) { if (m.vuela) { const v = m.vuela, t = TT * v.v + m.ph, px = m.x0 + Math.sin(t) * v.ax, py = m.y0 + Math.sin(t * 1.7) * v.ay; m.r = Math.atan2(Math.cos(t * 1.7) * v.ay * 1.7, Math.cos(t) * v.ax) / RAD - 90; m.r = Math.max(-60, Math.min(60, ((m.r + 540) % 360) - 180)); m.x = px; m.y = py; } const it = item(); it.ds = d; it.o = m; it.a = a; it.tipo = 1; it.d = d; nl++; } }
     for (const p of petalos) { p.y += p.vy * dt; p.x += p.vx * dt; p.rx += p.sx * dt; p.ry += p.sy * dt; if (p.y < -hh * 1.3) p.y = hh * 1.3; const d = camZ - p.z; if (d > 2 && d < 300) { const it = item(); it.ds = d; it.o = p; it.a = Math.min(1, (300 - d) / 60, (d - 2) / 8) * .85; it.tipo = 2; it.d = d; nl++; } }
     lista.length = nl; for (let i = 0; i < nl; i++) lista[i] = pool[i];
@@ -555,6 +573,7 @@ body.abre.bajo #desliza{opacity:0;transition:opacity .4s}
       mt(FIN, PV, w4); if (fuera(FIN)) continue;
       let aa = a; if (o.tw) aa *= .45 + .55 * Math.sin(TT * o.tw * 3 + o.x);
       dibuja(o.tex, FIN, aa, o.k, o.b);
+      if (o.cruz) { mt(w1, sT(q1, o.x, o.y, o.z), sY(q2, TT * (o.spinY || 0) + Math.PI / 2)); mt(w2, w1, sX(q3, o.rx)); mt(w3, w2, sZ(q4, o.rz)); mt(w4, w3, sS(q5, o.w, o.h)); mt(FIN, PV, w4); dibuja(o.tex, FIN, aa, o.k, o.b); }
     }
     // estación y botón final
     const e = Math.round(viaje / D); if (e !== est) { est = e; puntos.forEach((x, i) => x.classList.toggle("on", i === e)); }

diff --git a/sobre/index.html b/sobre/index.html
@@ -459,6 +459,8 @@ body.t-perla .pt .te,body.t-perla .pt .fecha-c small,body.t-perla .falta-t,body.
       <div class="d"><span class="ico"><svg viewBox="0 0 24 24" fill="none" stroke="currentColor" stroke-width="1.8" stroke-linejoin="round" stroke-linecap="round"><rect x="3.5" y="5" width="17" height="15.5" rx="2.5"/><path d="M3.5 10h17M8 3v4M16 3v4"/></svg></span><div><small>Fecha</small><p>Sábado 7 de noviembre</p><em>2026</em></div></div>
       <div class="d"><span class="ico"><svg viewBox="0 0 24 24" fill="none" stroke="currentColor" stroke-width="1.8" stroke-linecap="round"><circle cx="12" cy="12" r="9"/><path d="M12 7v5l3 2"/></svg></span><div><small>Hora</small><p>8:00 p. m.</p><em>Sábado 7 de noviembre</em></div></div>
       <div class="d"><span class="ico"><svg viewBox="0 0 24 24" fill="none" stroke="currentColor" stroke-width="1.8" stroke-linejoin="round"><path d="M12 21s7-6.2 7-11.5A7 7 0 0 0 5 9.5C5 14.8 12 21 12 21Z"/><circle cx="12" cy="9.5" r="2.5"/></svg></span><div><small>Lugar</small><p>Jr. San Juan Bautista 363</p><em>2.ª etapa San Juan Bautista, Comas<br>Ref.: Incas Universitaria</em></div></div>
+      <div class="d"><span class="ico"><svg viewBox="0 0 24 24" fill="none" stroke="currentColor" stroke-width="1.8" stroke-linejoin="round"><path d="M12 20s-7-4.4-7-10a4 4 0 0 1 7-2.6A4 4 0 0 1 19 10c0 5.6-7 10-7 10Z"/></svg></span><div><small>Mi padre</small><p>Luis Ananias Cholan Calua</p></div></div>
+      <div class="d"><span class="ico"><svg viewBox="0 0 24 24" fill="none" stroke="currentColor" stroke-width="1.8" stroke-linejoin="round"><path d="M12 20s-7-4.4-7-10a4 4 0 0 1 7-2.6A4 4 0 0 1 19 10c0 5.6-7 10-7 10Z"/></svg></span><div><small>Mi padrino</small><p>Juan José Terán</p></div></div>
     </div>
   </section>
 
